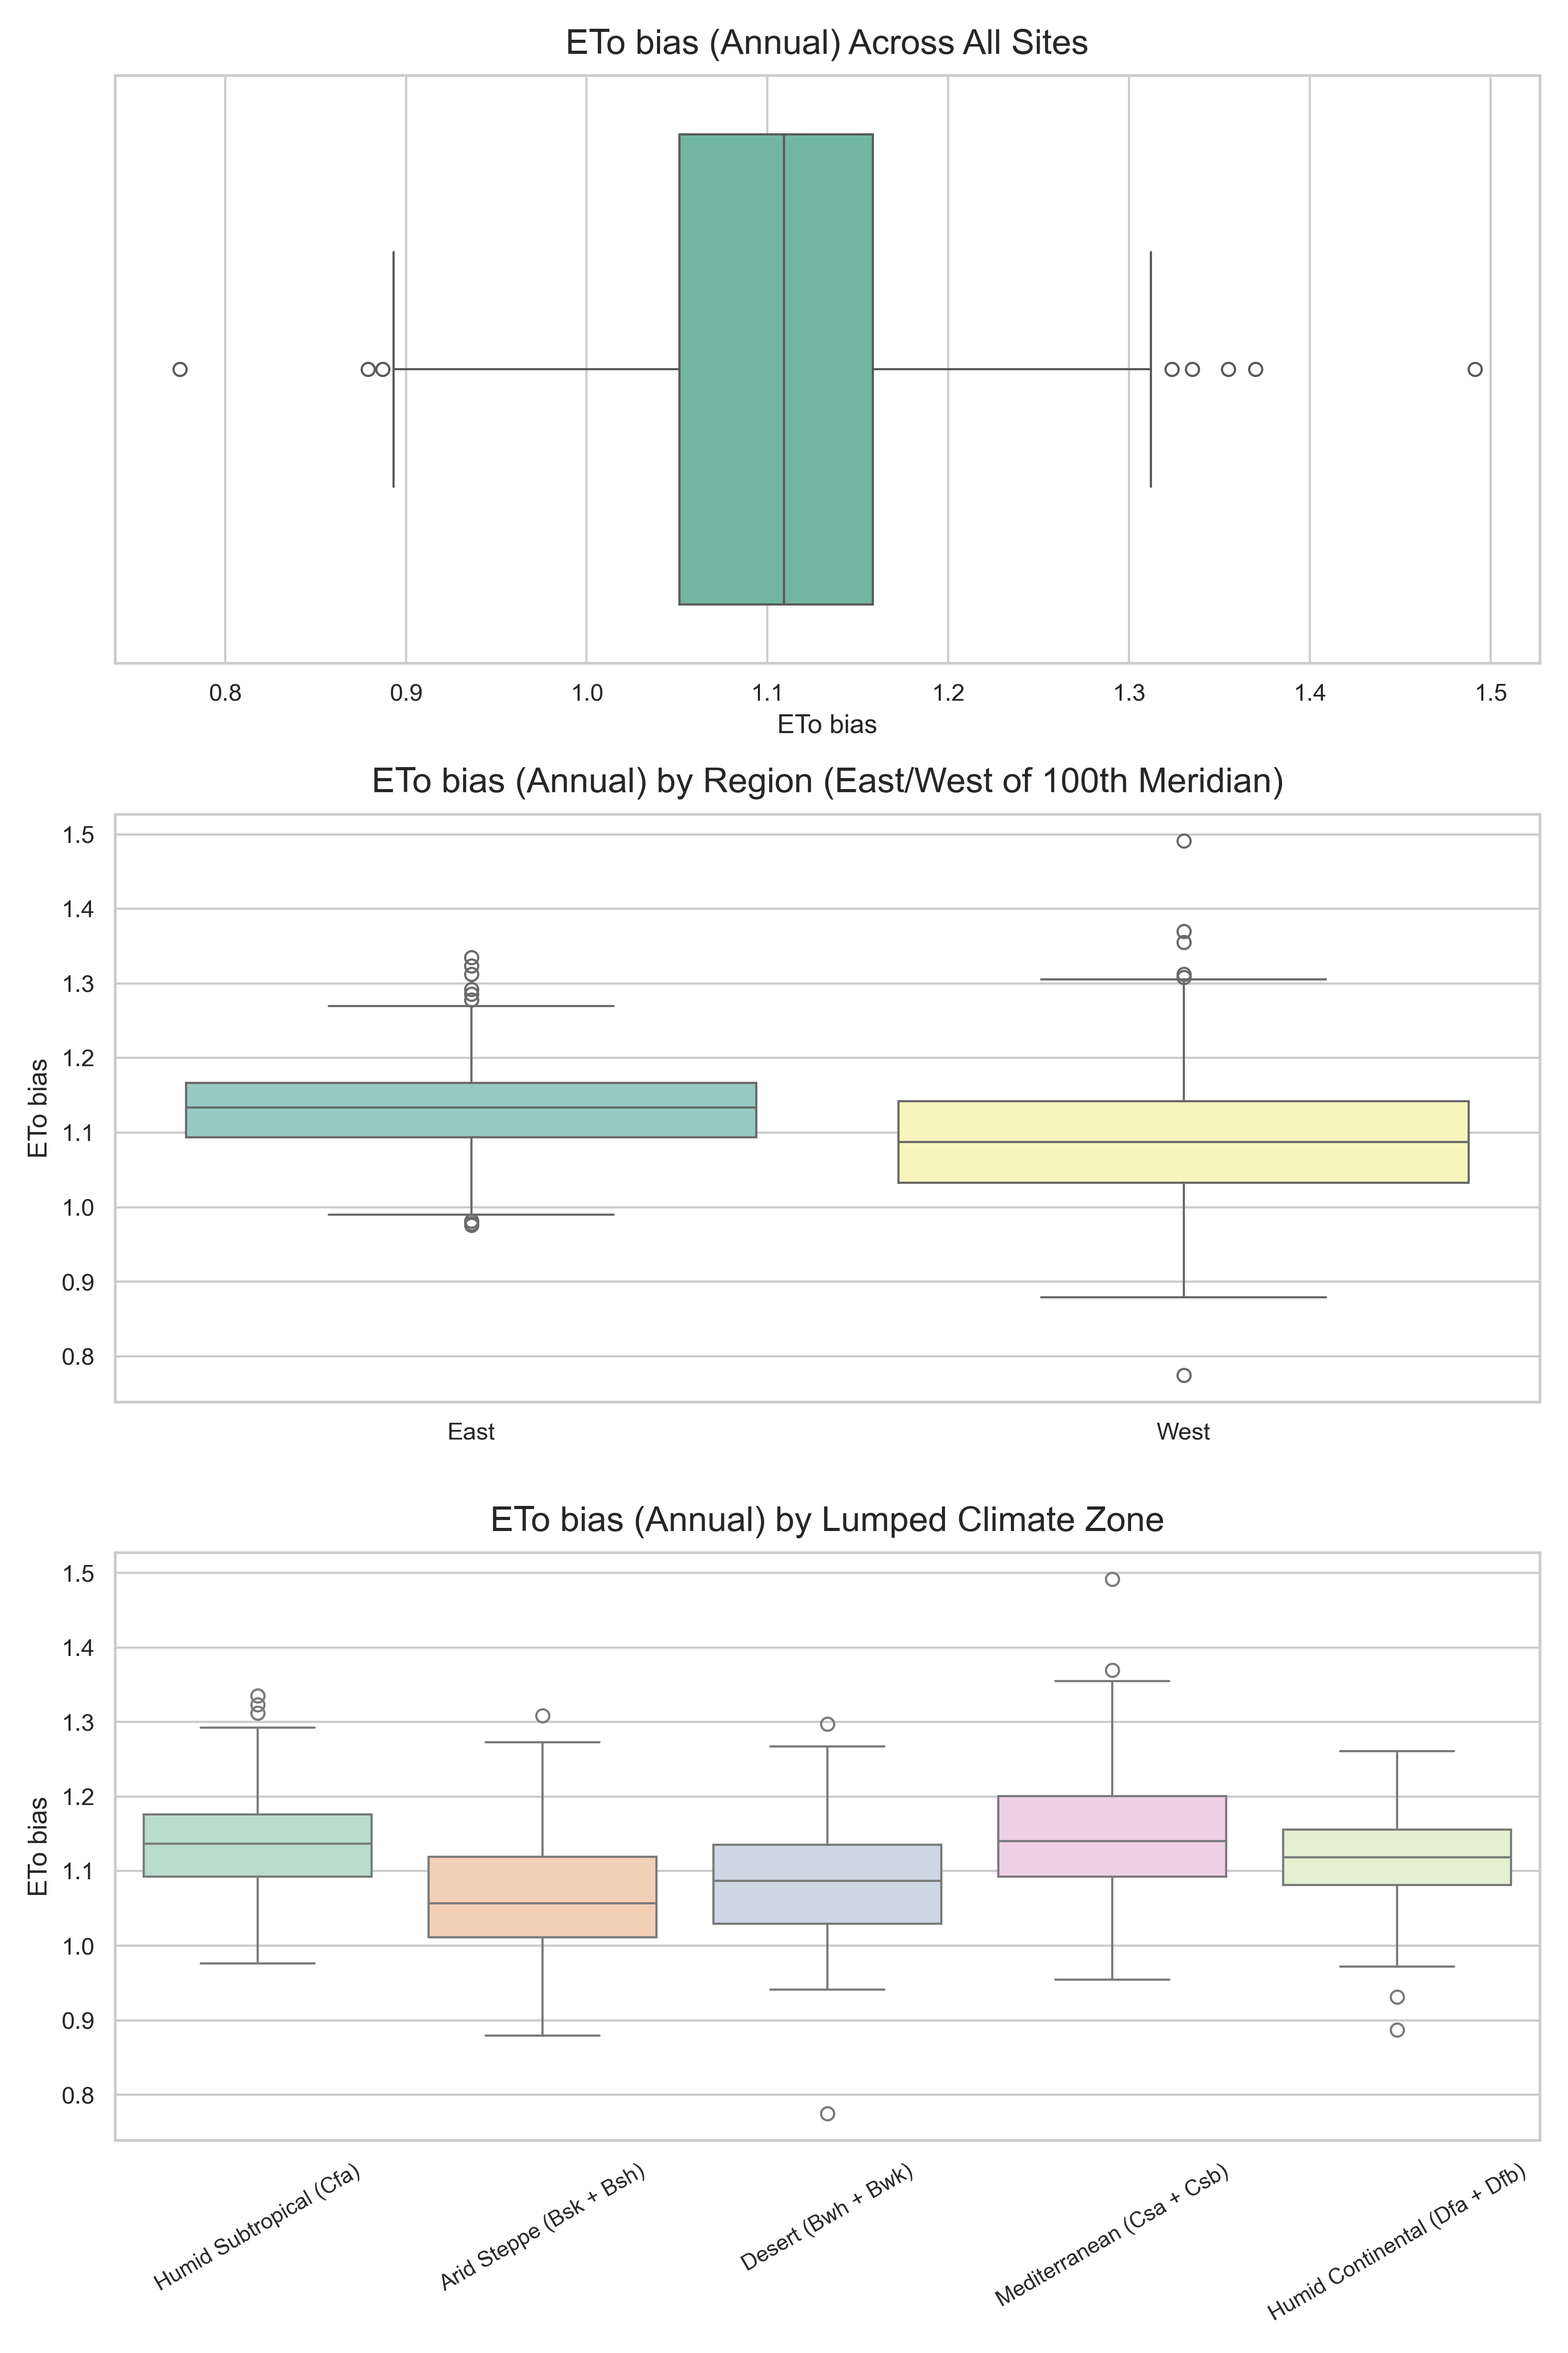
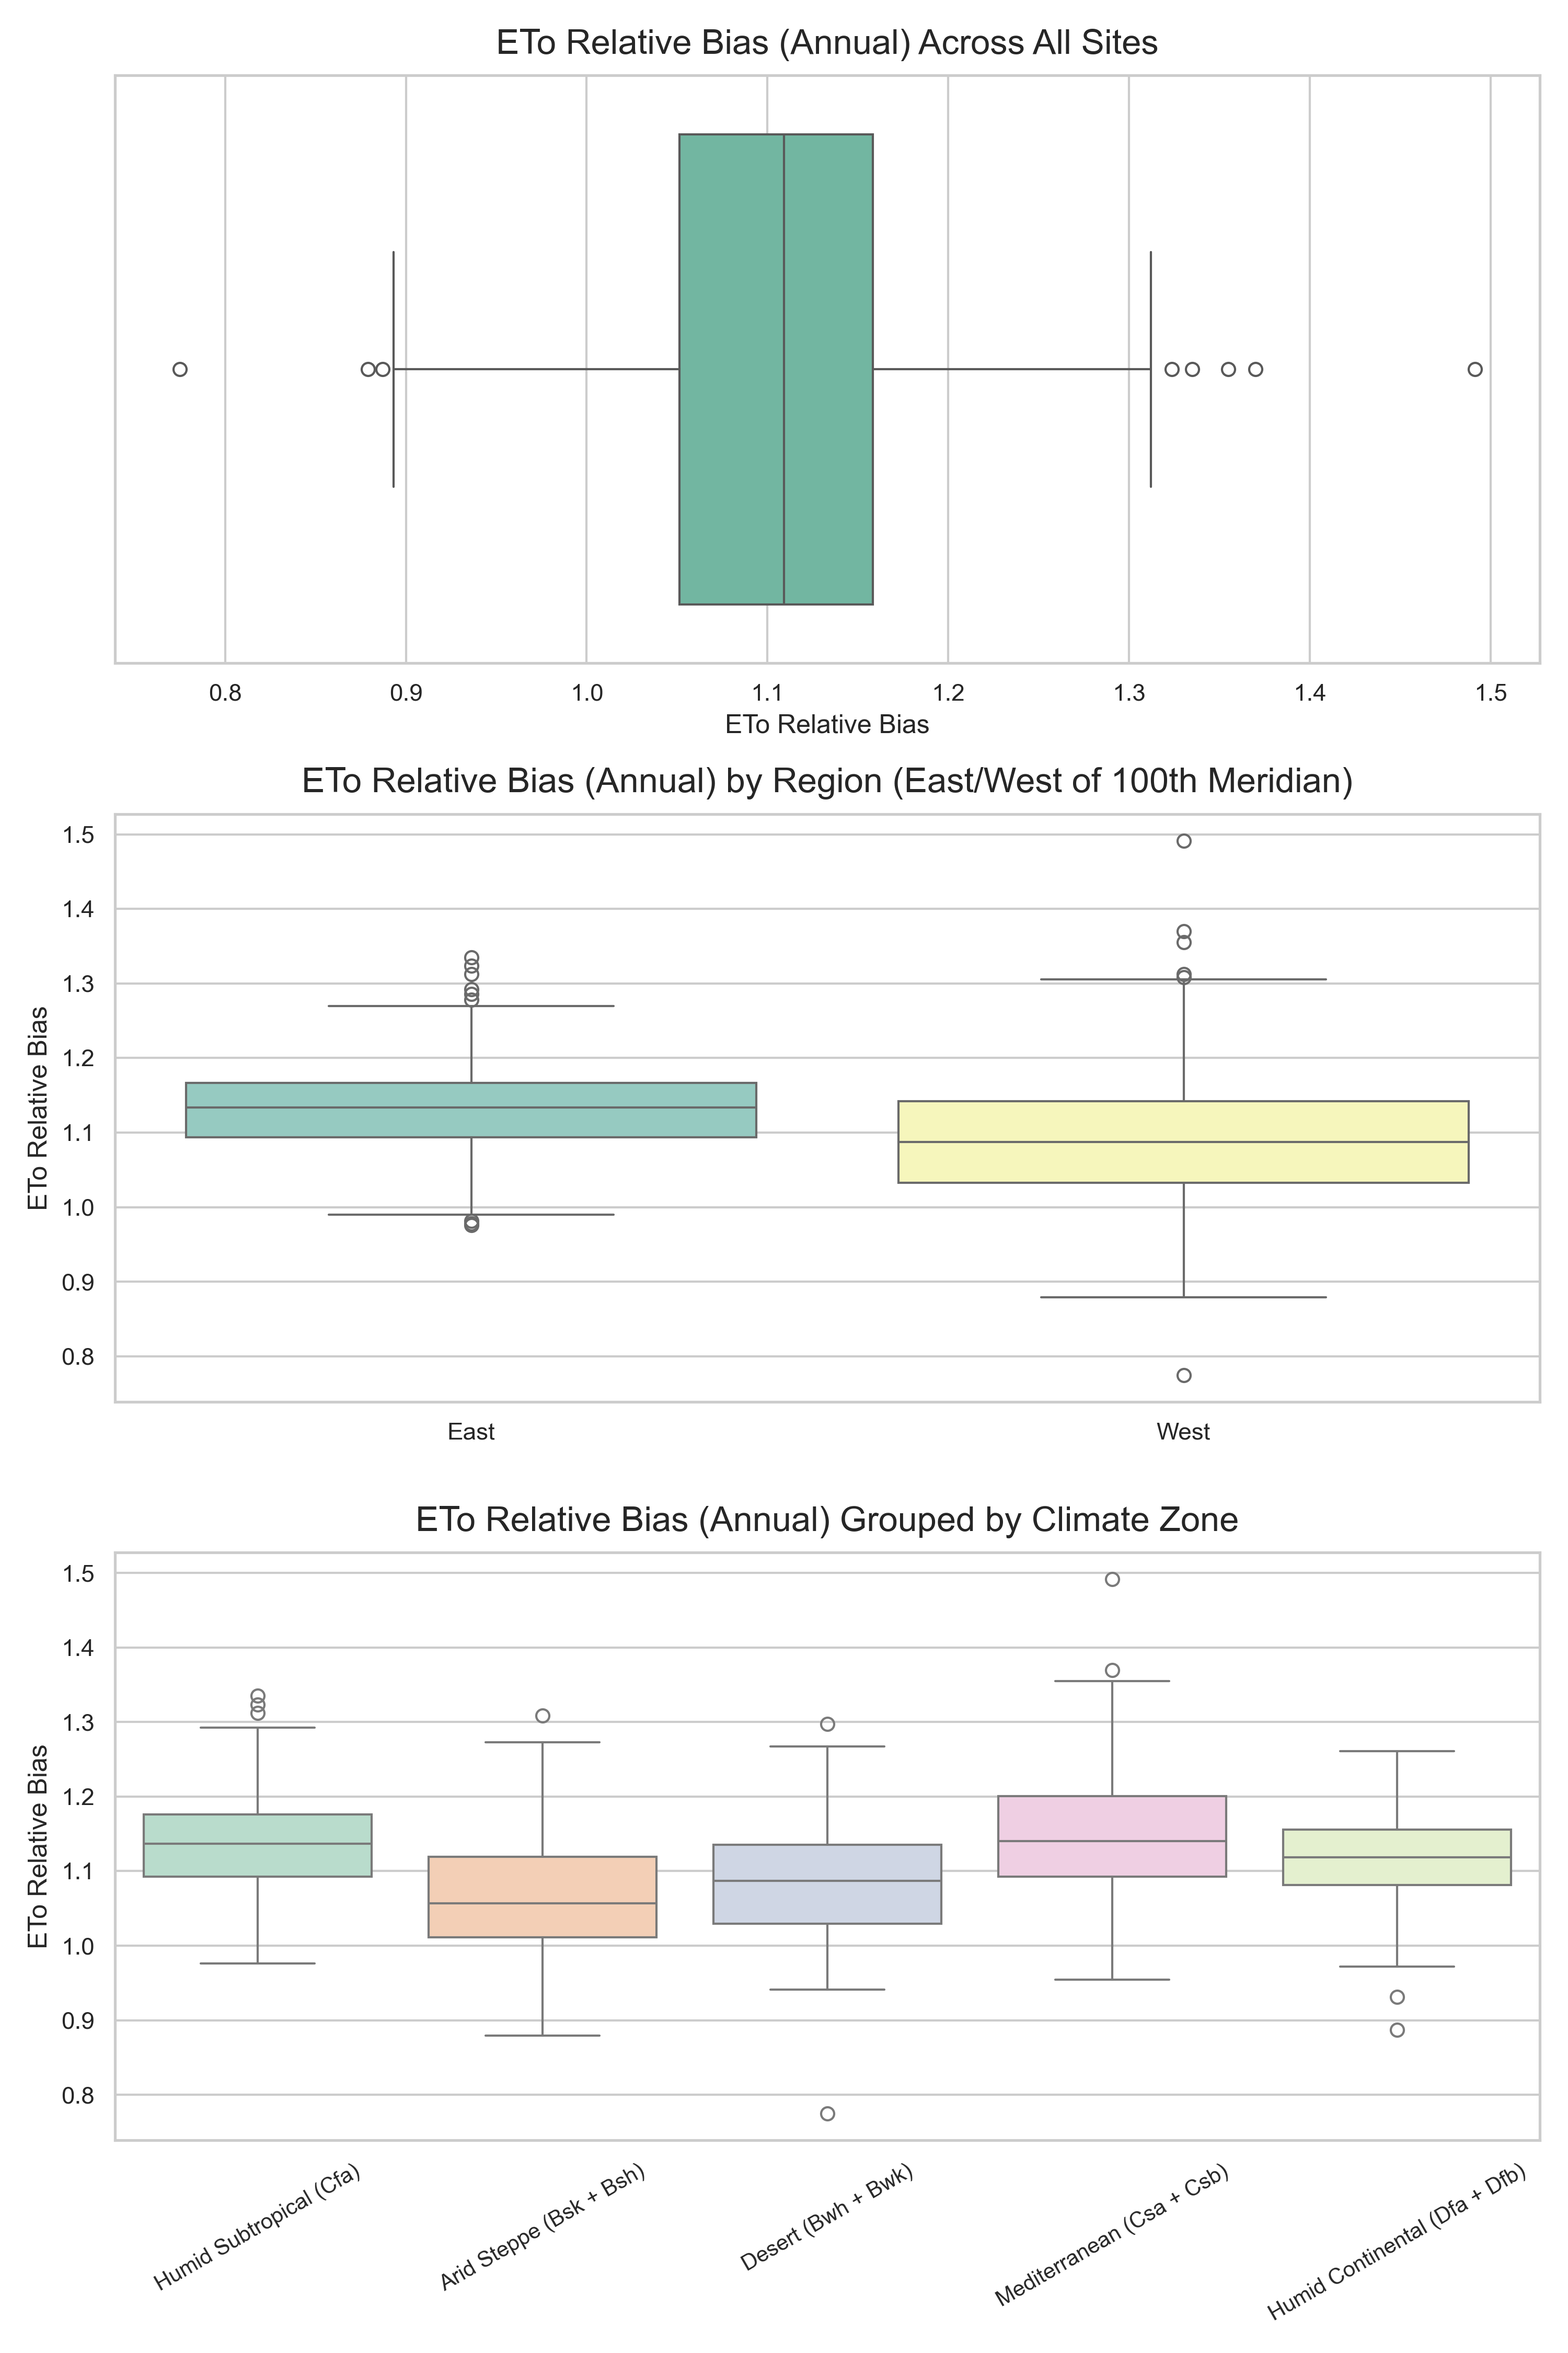
update bias boxplots

diff --git a/gridmetbias/scripts/boxplots_stats.py b/gridmetbias/scripts/boxplots_stats.py
@@ -60,7 +60,7 @@ simplified_names = {
 }
 
 def generate_boxplots(var_name):
-    data_path = f"../../Data/Point bias data/Climate/{var_name}_merged_with_climate.csv"
+    data_path = f"../../Data/Point_bias_data/Climate/{var_name}_merged_with_climate.csv"
     merged_data = pd.read_csv(data_path)
 
     if var_name in ["tmin_c", "tmax_c"]:
@@ -84,20 +84,20 @@ def generate_boxplots(var_name):
 
     # Boxplot 1: All sites
     sns.boxplot(x=valid_data[plot_variable], ax=axes[0], palette="Set2")
-    axes[0].set_title(f"{simplified_names[var_name]} bias ({time_period_label}) Across All Sites", fontsize=16, pad=10)
-    axes[0].set_xlabel(f"{simplified_names[var_name]} bias", fontsize=12)
+    axes[0].set_title(f"{simplified_names[var_name]} Relative Bias ({time_period_label}) Across All Sites", fontsize=16, pad=10)
+    axes[0].set_xlabel(f"{simplified_names[var_name]} Relative Bias", fontsize=12)
 
     # Boxplot 2: East vs. West of 100th meridian
     sns.boxplot(x='Region', y=plot_variable, data=valid_data, ax=axes[1], palette="Set3")
-    axes[1].set_title(f"{simplified_names[var_name]} bias ({time_period_label}) by Region (East/West of 100th Meridian)", fontsize=16, pad=10)
+    axes[1].set_title(f"{simplified_names[var_name]} Relative Bias ({time_period_label}) by Region (East/West of 100th Meridian)", fontsize=16, pad=10)
     axes[1].set_xlabel("")
-    axes[1].set_ylabel(f"{simplified_names[var_name]} bias", fontsize=12)
+    axes[1].set_ylabel(f"{simplified_names[var_name]} Relative Bias", fontsize=12)
 
     # Boxplot 3: By Lumped Climate Zone
     sns.boxplot(x='Lumped_Zone', y=plot_variable, data=valid_data, ax=axes[2], palette="Pastel2")
-    axes[2].set_title(f"{simplified_names[var_name]} bias ({time_period_label}) by Lumped Climate Zone", fontsize=16, pad=10)
+    axes[2].set_title(f"{simplified_names[var_name]} Relative Bias ({time_period_label}) Grouped by Climate Zone", fontsize=16, pad=10)
     axes[2].set_xlabel("")
-    axes[2].set_ylabel(f"{simplified_names[var_name]} bias", fontsize=12)
+    axes[2].set_ylabel(f"{simplified_names[var_name]} Relative Bias", fontsize=12)
     axes[2].tick_params(axis='x', rotation=30, labelsize=10)  # Rotate for better readability
 
     plot_output_path = os.path.join(plots_folder, f"{simplified_names[var_name]}_Bias_Boxplots_{plot_variable}.png")
